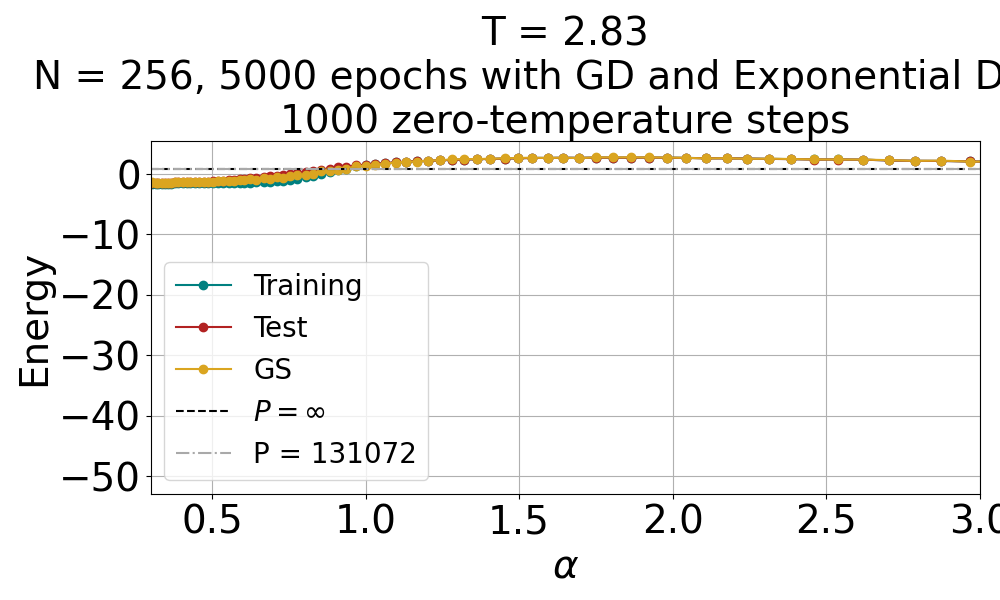
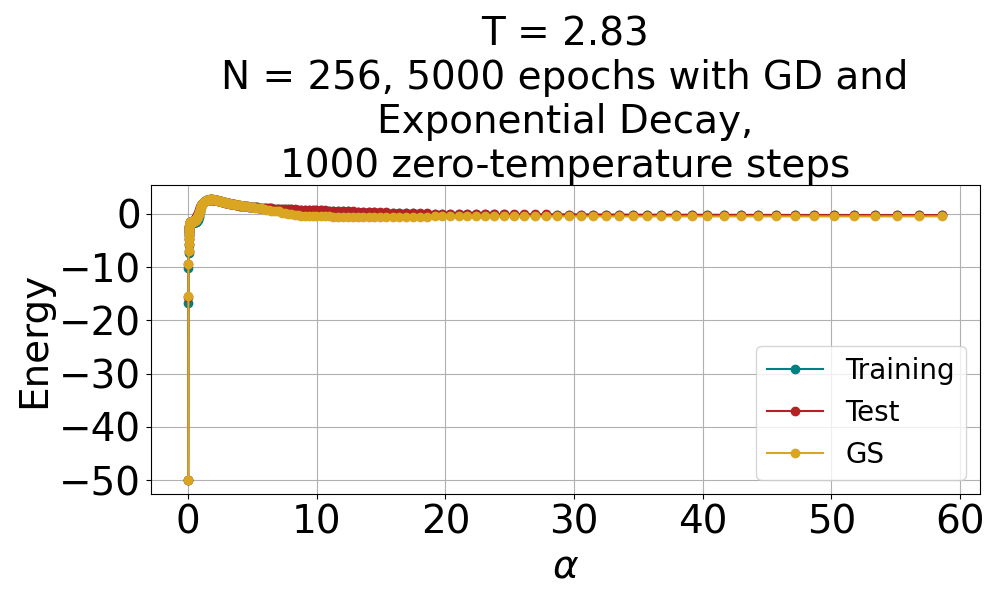
added multiple runs. Modified the code for the plots

diff --git a/Grafici/Code_for_Plots/stability_withP_L16.py b/Grafici/Code_for_Plots/stability_withP_L16.py
@@ -19,8 +19,11 @@ seed = 3397150145
 data = pd.read_csv(f"../../Dati/Omega/Results/L16_seed{seed}/L16_seed{seed}_T{T:.2f}.txt", sep=" ", header = None, names = ["P", "m_train", "m_test", "m_GS", "E_train", "E_test", "E_gs", "gamma","R"])
 count_P_equals_1 = data[data["P"] == 1].shape[0]
 print(f"Used {count_P_equals_1} runs")
-data = data.groupby("P").mean().reset_index()
-all_ms_np = data.to_numpy()
+data_means = data.groupby("P").mean().reset_index()
+errors = data.groupby("P").std().reset_index()
+all_ms_np = data_means.to_numpy()
+errors_np = errors.to_numpy()
+
 
 asymptotics = pd.read_csv(f"../../Dati/Omega/Results/L16_seed{seed}/asymptotics.txt", sep=" ", header = None, names = ["T", "m_train", "m_test", "m_perf", "E_training", "E_test", "E_perfect", "gsdist_train", "gsdist_test", "gsdist_perfect"])
 asymptotics = asymptotics[asymptotics["T"] == T]
@@ -33,19 +36,19 @@ asymptotics = asymptotics[asymptotics["T"] == T]
 
 # Plotting
 plt.figure(figsize=(10, 6))
-plt.plot(all_ms_np[:, 0]/N, all_ms_np[:, 1], marker='o', linestyle='-', color='teal', label='Training')
-plt.plot(all_ms_np[:, 0]/N, all_ms_np[:, 2], marker='o', linestyle='-', color='firebrick', label='Test')
-plt.plot(all_ms_np[:, 0]/N, all_ms_np[:, 3], marker='o', linestyle='-', color='goldenrod', label='GS')
+plt.errorbar(all_ms_np[:, 0]/N, 2*all_ms_np[:, 1]-1, yerr = 2*errors_np[:,1]/np.sqrt(count_P_equals_1),marker='o', linestyle='-', markersize = 1, color='teal', label='Training')
+plt.errorbar(all_ms_np[:, 0]/N, 2*all_ms_np[:, 2]-1, yerr = 2*errors_np[:,2]/np.sqrt(count_P_equals_1),marker='o', linestyle='-', markersize = 1, color='firebrick', label='Test')
+plt.errorbar(all_ms_np[:, 0]/N, 2*all_ms_np[:, 3]-1, yerr = 2*errors_np[:,3]/np.sqrt(count_P_equals_1),marker='o', linestyle='-', markersize = 1, color='goldenrod', label='GS')
 
 # Plot horizontal line at magnetization perfect
-plt.axhline(y=asymptotics["m_perf"].values[0], color='black', linestyle='--', label=r'$P = \infty$')
-plt.axhline(y=asymptotics["m_train"].values[0], color='darkgray', linestyle='-.', label='P = 131072')
+plt.axhline(y=2*asymptotics["m_perf"].values[0]-1, color='black', linestyle='--', label=r'$P = \infty$')
+plt.axhline(y=2*asymptotics["m_train"].values[0]-1, color='darkgray', linestyle='-.', label='P = 131072')
 
 
 # Adding labels and title
 plt.xlabel(r'$\alpha$', fontsize=20)
 plt.ylabel('Magnetization', fontsize=20)
-plt.title(f'T = {T:.2f}\nN = 256, 5000 epochs with GD and Exponential Decay\n1000 zero-temperature steps', fontsize=16)
+plt.title(f'T = {T:.2f}, N = 256,\n {count_P_equals_1} runs, 1000 epochs with GD and Exponential Decay\n1000 zero-temperature steps', fontsize=16)
 plt.xticks(fontsize=16)
 plt.yticks(fontsize=16)
 

diff --git a/Grafici/Code_for_Plots/energy.py b/Grafici/Code_for_Plots/energy.py
@@ -38,8 +38,8 @@ plt.plot(all_ms_np[:, 0]/N, all_ms_np[:, 5], marker='o', linestyle='-', color='f
 plt.plot(all_ms_np[:, 0]/N, all_ms_np[:, 6], marker='o', linestyle='-', color='goldenrod', label='GS')
 
 # Plot horizontal line at magnetization perfect
-plt.axhline(y=asymptotics["m_perf"].values[0], color='black', linestyle='--', label=r'$P = \infty$')
-plt.axhline(y=asymptotics["m_train"].values[0], color='darkgray', linestyle='-.', label='P = 131072')
+#plt.axhline(y=asymptotics["m_perf"].values[0], color='black', linestyle='--', label=r'$P = \infty$')
+#plt.axhline(y=asymptotics["m_train"].values[0], color='darkgray', linestyle='-.', label='P = 131072')
 
 
 # Adding labels and title
@@ -49,7 +49,7 @@ plt.xticks(fontsize=28)
 plt.yticks(fontsize=28)
 plt.xlabel(r'$\alpha$', fontsize=28)
 plt.ylabel('Energy', fontsize=28)
-plt.title(f'T = {T:.2f}\nN = 256, 5000 epochs with GD and Exponential Decay\n1000 zero-temperature steps', fontsize=28)
+plt.title(f'T = {T:.2f}\nN = 256, 5000 epochs with GD and\nExponential Decay,\n1000 zero-temperature steps', fontsize=28)
 plt.legend(fontsize=28, ncol=2)
 plt.legend(fontsize=28)
 
@@ -69,12 +69,15 @@ plt.tight_layout()
 plt.tight_layout()
 
 #lin-scale
-plt.xlim(0.3,3)
+#plt.xlim(0.3,3)
 plt.savefig(f"../Figures/energy_L16_T{T:.2f}_lin.png")
 
 #log-scale
 plt.xscale('log')
-plt.xlim(0.3,30)
-plt.ylim(-2 , 3)
+plt.yscale('symlog', linthresh=2)
+
+#plt.xlim(0.3,30)
+#plt.ylim(-2 , 3)
+plt.tight_layout()
 plt.savefig(f"../Figures/energy_L16_T{T:.2f}_log.png")
-#############################################
+############################################

diff --git a/Grafici/Code_for_Plots/stability_withP_L8.py b/Grafici/Code_for_Plots/stability_withP_L8.py
@@ -19,11 +19,11 @@ magnetization_perfect = 0.8846750259399414 #value of the test_magnetization when
 
 # Plotting
 plt.figure(figsize=(10, 6))
-plt.plot(all_ms_np[:, 0], all_ms_np[:, 1], marker='o', linestyle='-', color='teal', label='Magnetization')
-plt.plot(all_ms_np[:, 0], all_ms_np[:, 2], marker='o', linestyle='-', color='firebrick', label='Magnetization test')
+plt.plot(all_ms_np[:, 0], 2*all_ms_np[:, 1]-1, marker='o', linestyle='-', color='teal', label='Magnetization')
+plt.plot(all_ms_np[:, 0], 2*all_ms_np[:, 2]-1, marker='o', linestyle='-', color='firebrick', label='Magnetization test')
 # Plot horizontal line at magnetization perfect
-plt.axhline(y=magnetization_perfect, color='black', linestyle='--', label=r'$P = \infty$')
-#plt.axhline(y=magnetizations_largealpha_test.item(), color='darkgray', linestyle=':', label='Perfect Magnetization')
+plt.axhline(y=2*magnetization_perfect-1, color='black', linestyle='--', label=r'$P = \infty$')
+#plt.axhline(y=2*magnetizations_largealpha_test.item()-1, color='darkgray', linestyle=':', label='Perfect Magnetization')
 
 
 # Adding labels and title

diff --git a/Codice/Modern/pl_EA2d/asymptotics.py b/Codice/Modern/pl_EA2d/asymptotics.py
@@ -33,7 +33,7 @@ if __name__ == "__main__":
     #train the model
     model = PLLModel(input_dim=N, output_dim=N)
     model = model.to("cuda")
-    model = train_pll_model(model, data_to_use, (data_to_use+1)/2, learning_rate=1, batch_size=P, epochs=5000)
+    model = train_pll_model(model, data_to_use, (data_to_use+1)/2, learning_rate=100, batch_size=P, epochs=1000, decay_factor=0.99)
     
     #perform 1000 steps of zero temperature dynamics
     result = data_to_use.clone()
